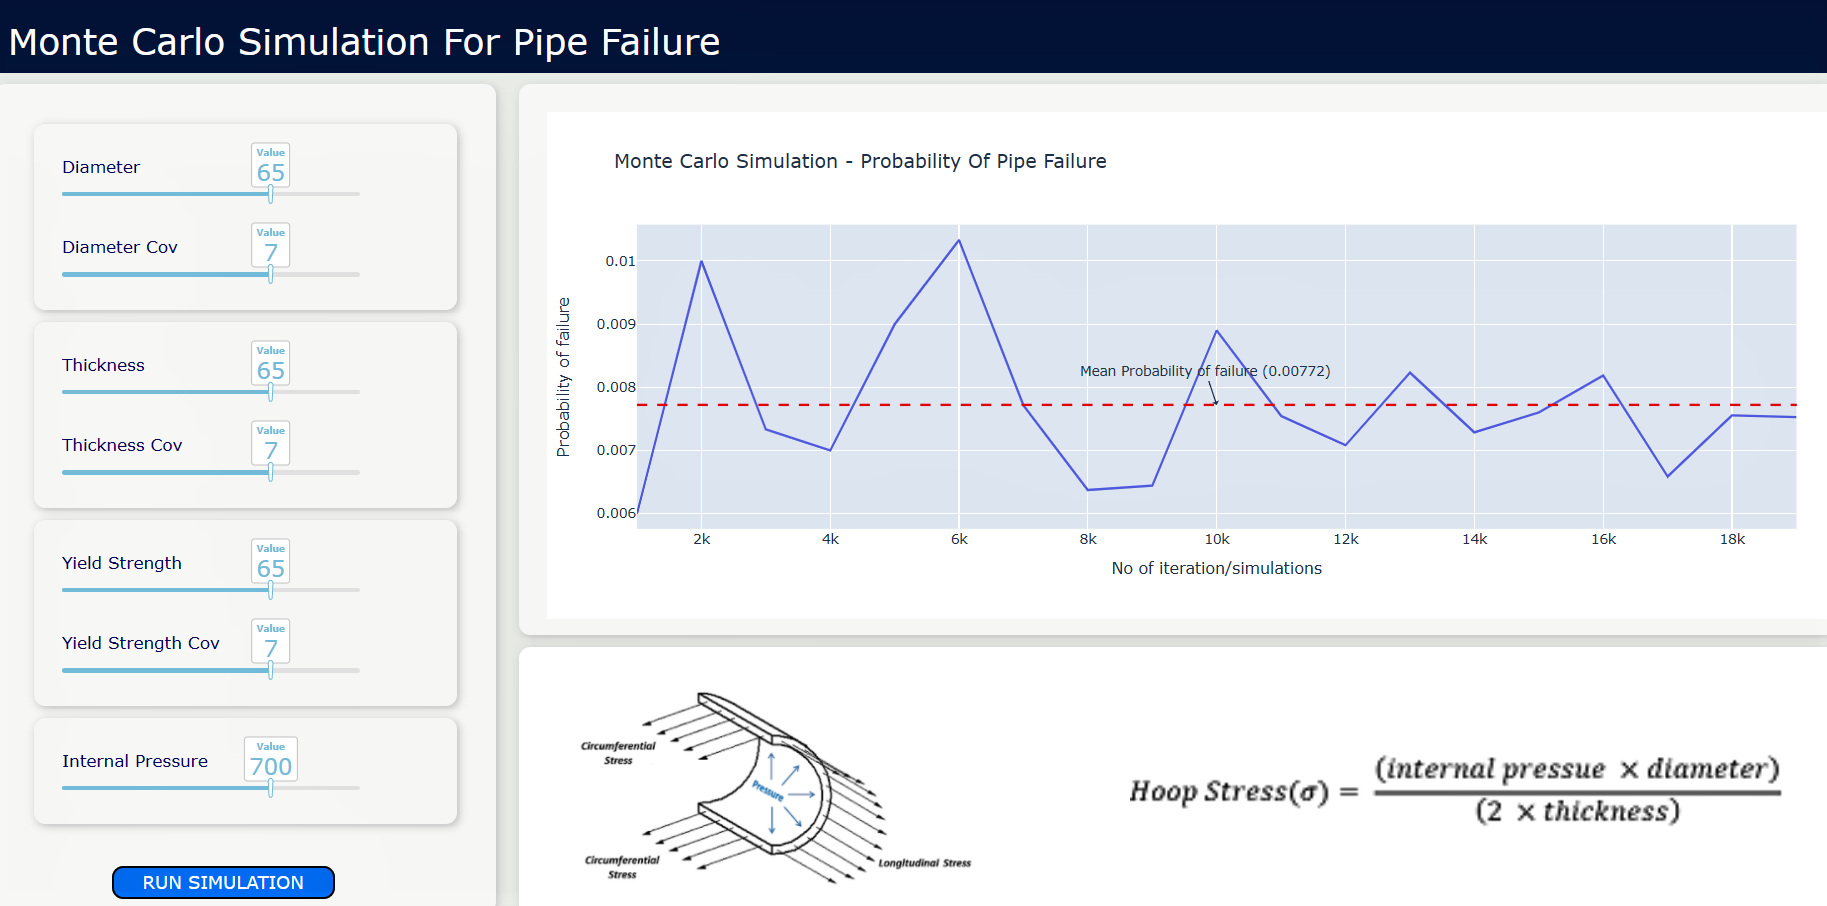
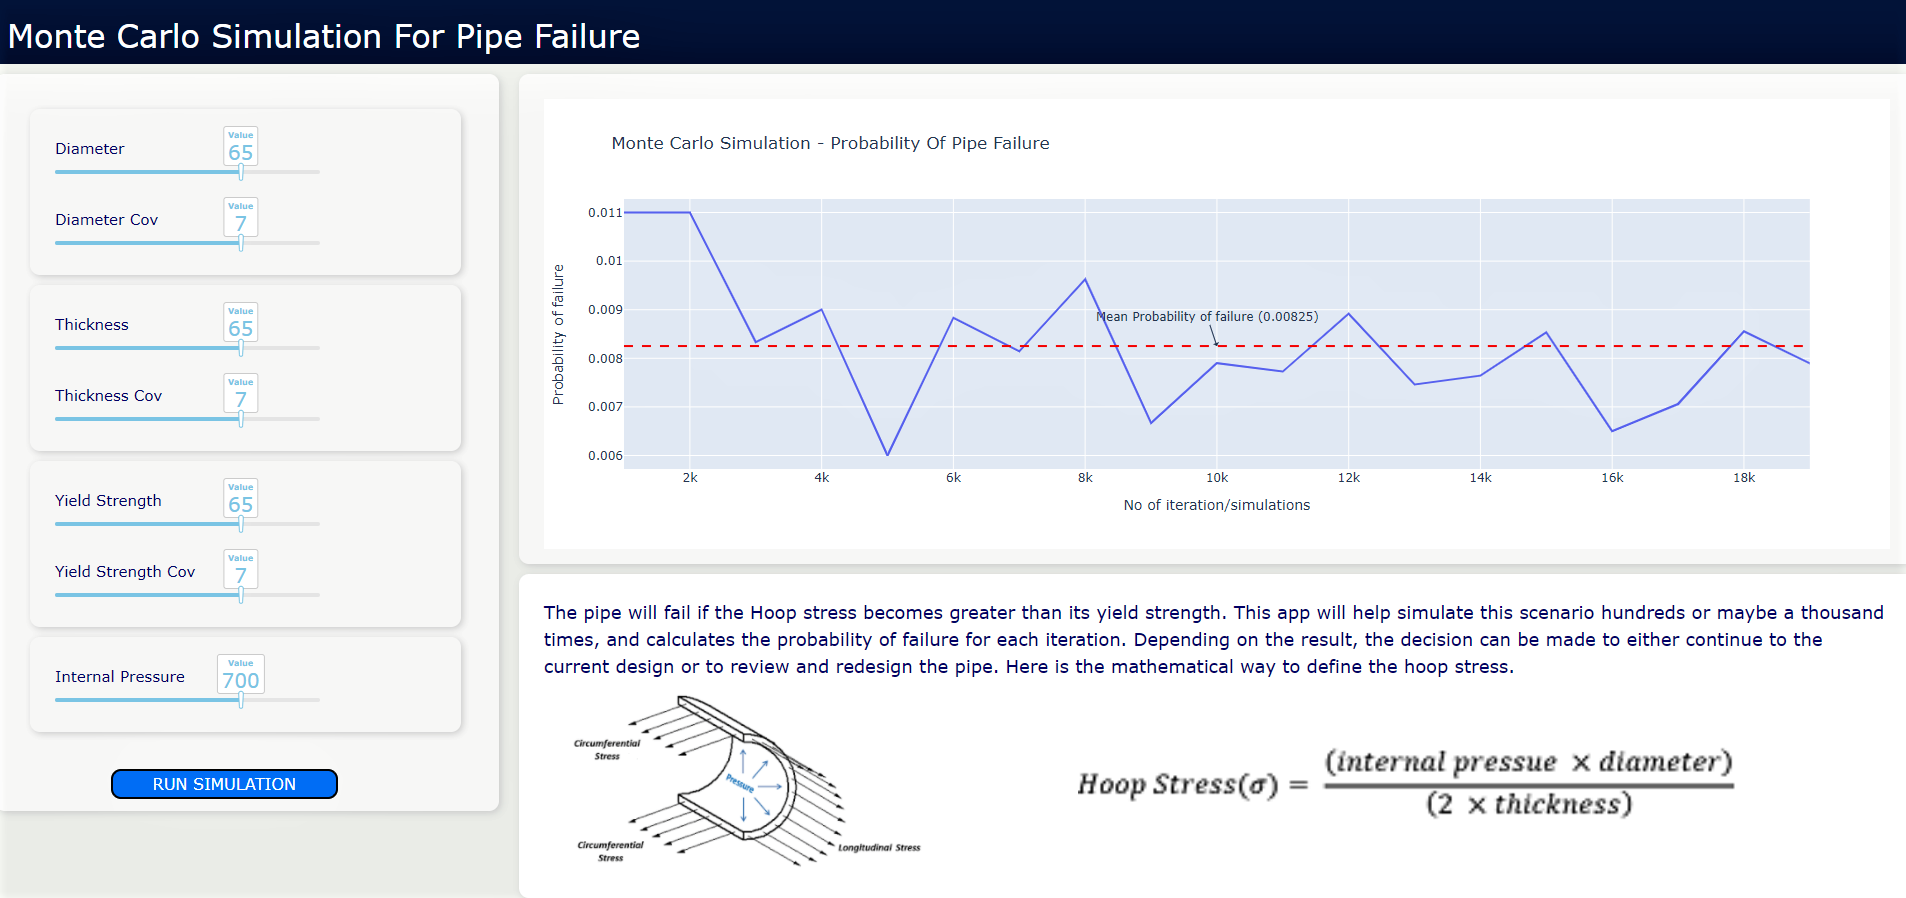
Updated te UI

diff --git a/Monte Carlo Simulation for Pipe Failure/app.py b/Monte Carlo Simulation for Pipe Failure/app.py
@@ -3,7 +3,7 @@ import time
 import dash_core_components as dcc
 # from dash import dcc
 import dash_html_components as html
-# from dash import html
+# from dash import html,Input, Output, State
 from dash.dependencies import Input, Output, State
 import dash_daq as daq
 import dash_bootstrap_components as dbc
@@ -24,7 +24,10 @@ app.layout = layout.layout_all
 
 
 @app.callback(    
-        Output("plt-failure", 'figure'),           
+        [
+            Output("plt-failure", 'figure'), 
+            Output('textarea-description', 'children')
+        ],          
         
         [Input('btn-run-simulation', 'n_clicks')],
         state = [State("val-diameter", "value"),
@@ -37,13 +40,26 @@ app.layout = layout.layout_all
     
 )
 def updatechart(n_clicks, diameter, diameter_cov, thickness, thickness_cov, strength, strength_cov, internal_pressue):
+    """_summary_
+
+    Args:
+        n_clicks (_type_): _description_
+        diameter (int): Diameter of the pipe
+        diameter_cov (int): Covariance of the diameter
+        thickness (int): Thickness of the pipe
+        thickness_cov (int): Covariance of the thickness
+        strength (int): Strength / Yield strength of the pipe
+        strength_cov (int): Covariance of the yield strength
+        internal_pressue (int): Inter Pressue in the pipe.
+
+    Returns:
+        Figure: Return a line chart fig 
+        str: Returns the description of the hoop stress.
+    """
     
-    print(f'Received values of diameter: {diameter} and {diameter_cov}')
-    print(f'Received values of thickness: {thickness} and {thickness_cov}')
-    print(f'Received values of strength: {strength} and {strength_cov} and internal pressue: {internal_pressue}')
-    
+    str_description = "The pipe will fail if the Hoop stress becomes greater than its yield strength. This app will help simulate this scenario hundreds or maybe a thousand times, and calculates the probability of failure for each iteration. Depending on the result, the decision can be made to either continue to the current design or to review and redesign the pipe. Here is the mathematical way to define the hoop stress."
     fig_linechart = pp.initiate_simulation(diameter, diameter_cov, thickness, thickness_cov, strength, strength_cov, internal_pressue)    
-    return fig_linechart
+    return fig_linechart,str_description
 
 
 if __name__ == '__main__':

diff --git a/Monte Carlo Simulation for Pipe Failure/layout.py b/Monte Carlo Simulation for Pipe Failure/layout.py
@@ -5,7 +5,7 @@ import dash_daq as daq
 import dash_core_components as dcc
 # from dash import dcc
 import dash_html_components as html
-# from dash import html
+# from dash import html,Input, Output, State
 import dash_bootstrap_components as dbc
 from dash.dependencies import Input, Output, State
 import pre_processing as pp
@@ -174,9 +174,10 @@ layout_all = html.Div([
             
             html.Div([
                 html.Div([
+                    html.Div(id='textarea-description', style={'whiteSpace': 'pre-line'}),
                     html.Img(className="logo1", src="./assets/hoopstress.jpg"),
                     html.Img(className="logo1", src="./assets/equation.png", style={'height':'20%', 'width':'50%', 'marginLeft': '10%'})
-                
+               
             ]),
                 
             ],className='boxImage', style={'padding-bottom': '15px'}),

diff --git a/Monte Carlo Simulation for Pipe Failure/pre_processing.py b/Monte Carlo Simulation for Pipe Failure/pre_processing.py
@@ -173,9 +173,9 @@ def simulate_values(mu, sigma, iterations, print_output=True):
 
 def plot_linechart(runs, sim_res):
     try:
-        print("---------------------------------------Initiating Simulation plot ---------------------------------------")
+        # print("---------------------------------------Initiating Simulation plot ---------------------------------------")
         y_mean = np.mean(sim_res)
-        print(f'y_mean:{y_mean}')
+        # print(f'y_mean:{y_mean}')
         df_res = pd.DataFrame(zip(runs, sim_res), columns=['runs', 'sim_res'])
         fig = px.line(df_res, x="runs", y="sim_res", title='Monte Carlo Simulation - Probability Of Pipe Failure')
         fig.add_hline(y=y_mean, line_color="red",line_dash="dash")
